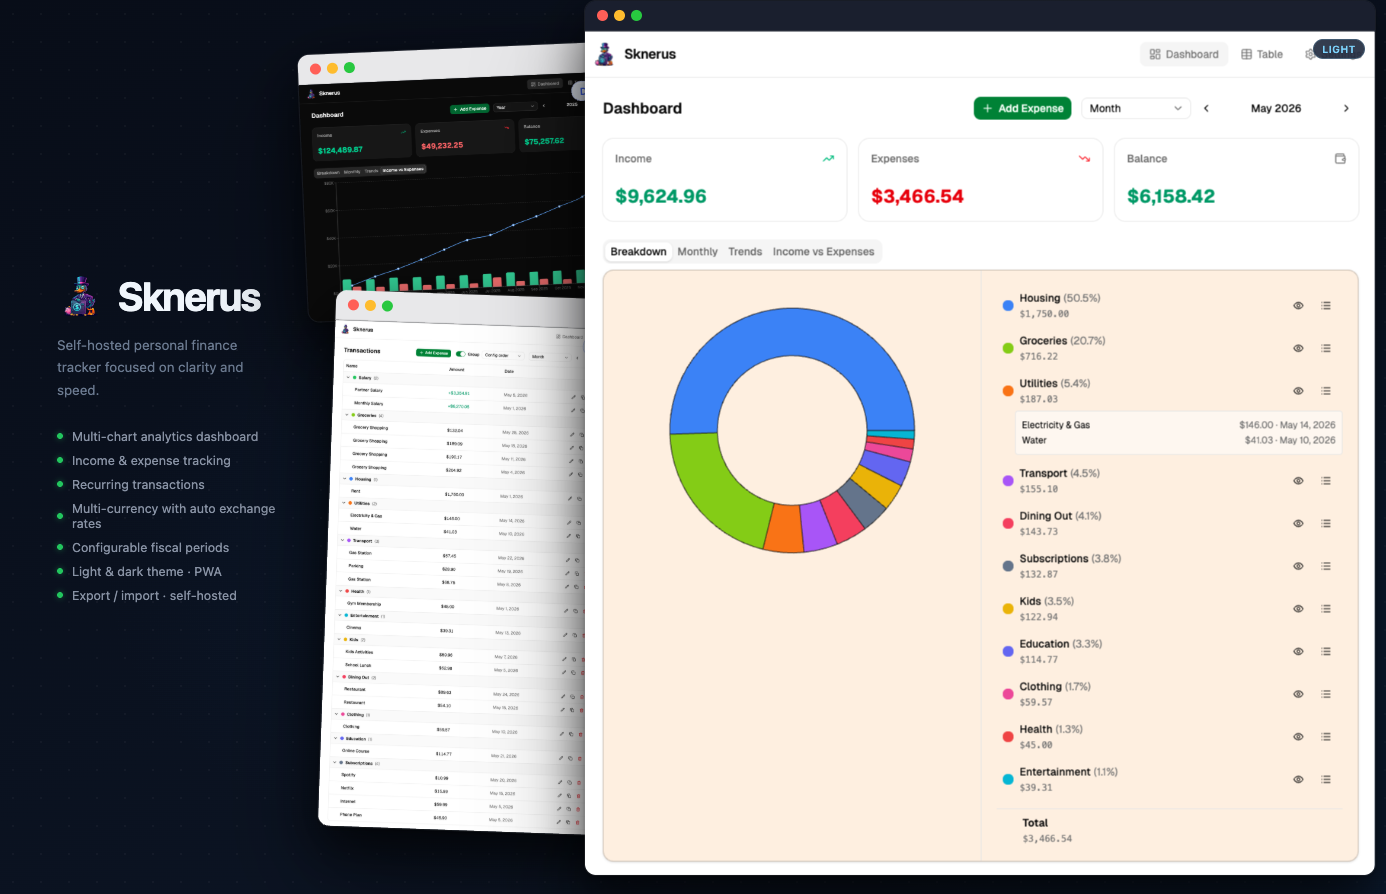
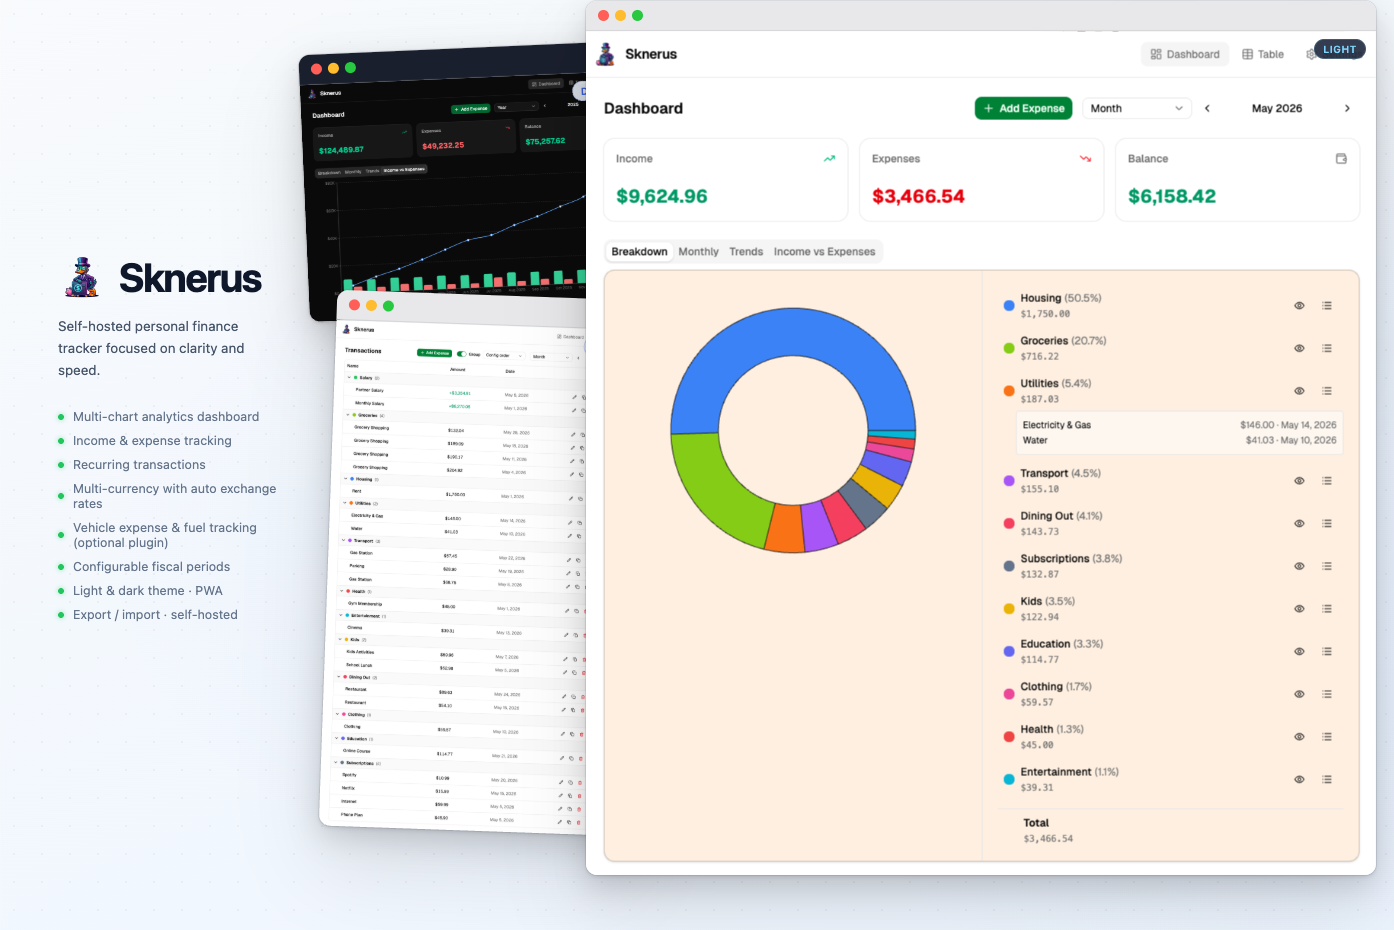
chore: change app preview image

diff --git a/etc/app-preview.html b/etc/app-preview.html
@@ -12,7 +12,7 @@
       height: 875px;
       overflow: hidden;
       font-family: -apple-system, BlinkMacSystemFont, 'Inter', 'Segoe UI', Roboto, sans-serif;
-      background: #080d18;
+      background: #f8fafc;
     }
 
     /* ── Background ── */
@@ -20,9 +20,9 @@
       position: absolute;
       inset: 0;
       background:
-        radial-gradient(ellipse 65% 70% at 72% 50%, rgba(20, 90, 160, 0.28) 0%, transparent 65%),
-        radial-gradient(ellipse 35% 45% at 25% 45%, rgba(16, 60, 110, 0.18) 0%, transparent 60%),
-        linear-gradient(155deg, #080d18 0%, #0c1525 55%, #080d18 100%);
+        radial-gradient(ellipse 65% 70% at 72% 50%, rgba(59, 130, 246, 0.08) 0%, transparent 65%),
+        radial-gradient(ellipse 35% 45% at 25% 45%, rgba(37, 99, 235, 0.06) 0%, transparent 60%),
+        linear-gradient(155deg, #f8fafc 0%, #eff6ff 55%, #f8fafc 100%);
     }
 
     /* subtle dot-grid overlay */
@@ -30,7 +30,7 @@
       content: '';
       position: absolute;
       inset: 0;
-      background-image: radial-gradient(circle, rgba(255,255,255,0.035) 1px, transparent 1px);
+      background-image: radial-gradient(circle, rgba(0,0,0,0.04) 1px, transparent 1px);
       background-size: 28px 28px;
     }
 
@@ -67,7 +67,7 @@
     .app-name {
       font-size: 40px;
       font-weight: 700;
-      color: #f0f6fc;
+      color: #0f172a;
       letter-spacing: -1.5px;
       line-height: 1;
     }
@@ -75,7 +75,7 @@
     .tagline {
       font-size: 13.5px;
       line-height: 1.65;
-      color: #6b7a90;
+      color: #475569;
       margin-bottom: 28px;
       max-width: 220px;
     }
@@ -89,7 +89,7 @@
 
     .feats li {
       font-size: 12.5px;
-      color: #8892a4;
+      color: #64748b;
       display: flex;
       align-items: center;
       gap: 9px;
@@ -117,10 +117,10 @@
       border-radius: 11px;
       overflow: hidden;
       box-shadow:
-        0 0 0 1px rgba(255,255,255,0.07),
-        0 2px 4px rgba(0,0,0,0.3),
-        0 20px 50px rgba(0,0,0,0.65),
-        0 50px 100px rgba(0,0,0,0.4);
+        0 0 0 1px rgba(0,0,0,0.08),
+        0 2px 4px rgba(0,0,0,0.1),
+        0 12px 30px rgba(0,0,0,0.15),
+        0 40px 80px rgba(0,0,0,0.1);
     }
 
     .chrome {
@@ -230,7 +230,7 @@
 
       <!-- Light: Breakdown -->
       <div class="window w-top">
-        <div class="chrome light-chrome">
+        <div class="chrome dark-chrome">
           <div class="btn btn-r"></div>
           <div class="btn btn-y"></div>
           <div class="btn btn-g"></div>
@@ -252,7 +252,7 @@
 
       <!-- Dark: Trends (main) -->
       <div class="window w-main">
-        <div class="chrome dark-chrome">
+        <div class="chrome light-chrome">
           <div class="btn btn-r"></div>
           <div class="btn btn-y"></div>
           <div class="btn btn-g"></div>
